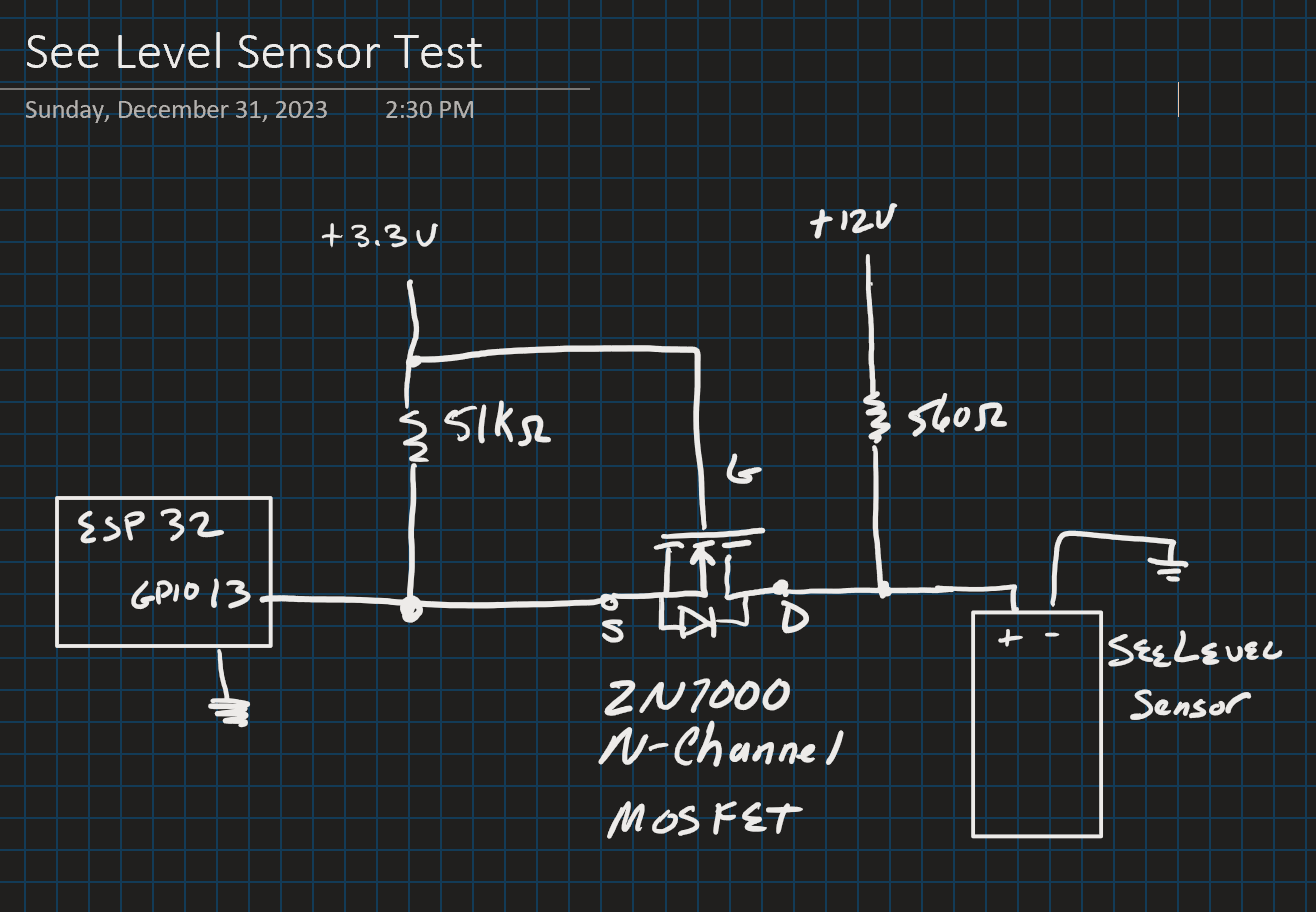
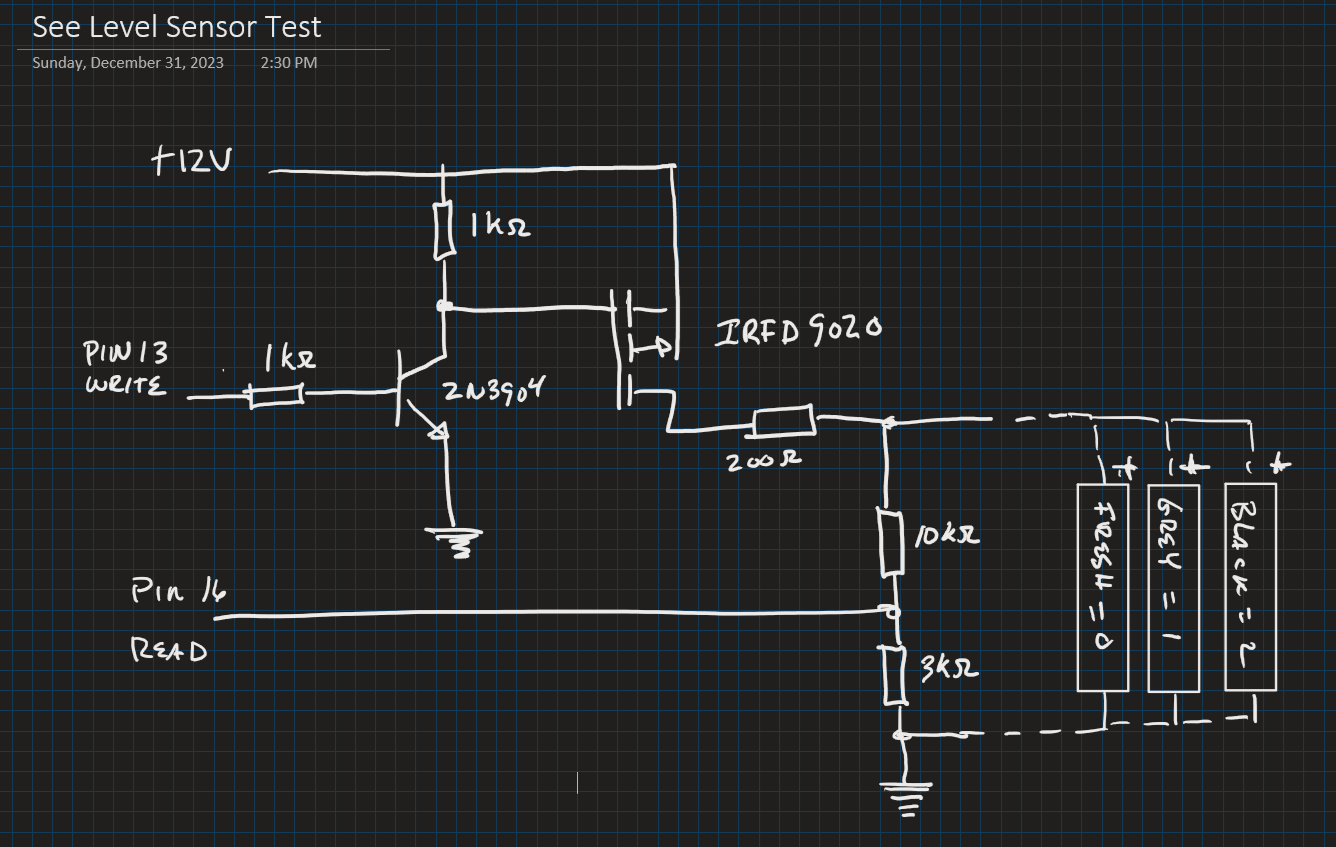
Refactor. Separate read pin from write pin.

Changed region(s): [[0.0, 0.0, 1.0, 1.0]]

diff --git a/src/main.cpp b/src/main.cpp
@@ -2,23 +2,23 @@
 
 Inspired by Jim G.: https://forums.raspberrypi.com/viewtopic.php?t=119614
 
-To read RV tanks equipped with the Garnet SeeLevel sensors, one can purchase 
+To read RV tanks equipped with the Garnet SeeLevel sensors, one can purchase
 a display monitor panel that has any of Bluetooth, RV-C, or NEMA2000 - all of
-which would be a better interface than this. This is an attempt to read the 
-sensors (senders) directly, without a Garnet display panel. 
+which would be a better interface than this. This is an attempt to read the
+sensors (senders) directly, without a Garnet display panel.
 
 Summary of information discovered by Jim G. and documented in the above post:
 
-  To trigger the tank sender/sensor, one needs to power the sender with 12V then 
-  pull the 12V line to ground in a particular pattern. The sender will respond 
-  by pulling the 12V line to ground with a series of pulses that can be 
+  To trigger the tank sender/sensor, one needs to power the sender with 12V then
+  pull the 12V line to ground in a particular pattern. The sender will respond
+  by pulling the 12V line to ground with a series of pulses that can be
   interpreted as bytes.
 
   Triggering the sender:
 
-  Each Garnet SeeLevel tank sender is configured as sensor 1, 2, or 3 by snipping 
+  Each Garnet SeeLevel tank sender is configured as sensor 1, 2, or 3 by snipping
   a tab on the sender. A sender will respond when it sees a sequence of pulses
-  to ground equal to its sensor number. Each pulse needs to be approx 85µs wide. 
+  to ground equal to its sensor number. Each pulse needs to be approx 85µs wide.
   Pulse spacing needs to be approximately 300µs.
 
   The sender will respond by pulling the 12V line to ground in a series of pulses.
@@ -34,7 +34,7 @@ Summary of information discovered by Jim G. and documented in the above post:
 
   For the segment fill values, a 'full' value will likely be less than 255, apparently
   depending on tank wall thickness, tank size, and perhaps how well the sender is
-  attached. In my testing, using a 710AR Rev E taped to a water jug, I see 'full' segments 
+  attached. In my testing, using a 710AR Rev E taped to a water jug, I see 'full' segments
   anywhere from 126 to 200. Pressing on a segment with my thumb will cause the sensor
   to read a higher value. Capacitance, perhaps?
 
@@ -44,21 +44,16 @@ Demo app - Output to Serial port:
 
 Interfacing 12V sensor with 3.3V ESP32:
 
-To interface, I built a level-shifter using this document as a guide:
+To interface, I wired a circuit using this document as a guide:
 
-  https://www.analog.com/en/design-notes/how-to-level-shift-1wire-systems.html
+  https://forums.raspberrypi.com/viewtopic.php?t=119614
 
-  The 'Basic Level Shifter' was built with the right-hand side powered by a 12V power
-  supply, with an ESP32 as the 3.3V side. Resisters were chosen by guessing. I ended 
-  up with a 51k pullup resister on the 3.3V side and a 560ohm resister on 
-  the 12V side. 
-
-  A cheap 12V-tolerant logic analyzer (LA1010) was used to assist 
-  in debugging.
+  Jim D.'s circuit appears to work fine. For an ESP32, the voltage divider
+  on the read pin should be modified to limit pin to no more than 3.3V
 
 Notes:
 
-  This app doesn't attempt to accommodate a trimmed sender or any sender other than the 
+  This app doesn't attempt to accommodate a trimmed sender or any sender other than the
   710AR Rev E.
 
   No attempt is made to process the returned data into an actual liquid level. I'm intending
@@ -67,15 +62,24 @@ Notes:
   I'm not confident in the validity of the checksum calculation.
 
   Uses Arduino framework but is only tested on an ESP32.
-  
-  When the ESP32 pin is pulled low, the ESP32 sinks current from both sides of the 
-  circuit, so care must be taken to prevent the ESP32 from going to smoke.
-  
+
 */
 
 #include <Arduino.h>
 
-int SeeLevelPIN = 13;  // ESP32 pin attached to level shifting circuit
+// ESP32 Write Pin. Set HIGH to power sensors
+const int SeeLevelWritePIN = 13;
+// ESP32 Read pin. Will be pulled low by sensors
+const int SeeLevelReadPIN = 16;
+
+// Time 12V bus is powered before sending pulse(s) to sensor(s)
+#define SEELEVEL_POWERON_DELAY 2450
+// Width of pulse sent to sensors
+#define SEELEVEL_PULSE_LOW_MICROSECONDS 85
+// Time between pulses snt to sensors
+#define SEELEVEL_PULSE_HIGH_MICROSECONDS 290
+// How long to wait for response before timing out
+#define SEELEVEL_PULSE_TIMEOUT 10000
 
 // Byte array to store data for 3 tanks x 12 bytes data per tank:
 byte SeeLevelData[3][12];
@@ -86,8 +90,9 @@ void readLevel(int);
 void setup() {
   Serial.begin(115200);
   Serial.println("\n\nTank Level is Woke!");
-  pinMode(SeeLevelPIN, OUTPUT);
-  digitalWrite(SeeLevelPIN, LOW);
+  pinMode(SeeLevelWritePIN, OUTPUT);
+  pinMode(SeeLevelReadPIN, INPUT);
+  digitalWrite(SeeLevelWritePIN, LOW);
   delay(5000);
 }
 
@@ -102,49 +107,58 @@ void loop() {
     }
 
     // Verify checksum
-    int byteSum = 0;                    
-    for (int i = 2; i <= 10; i++) {             // Sum data bytes 
+    int byteSum = 0;
+    for (int i = 2; i <= 10; i++) {  // Sum data bytes
       byteSum = byteSum + SeeLevelData[t][i];
     }
+    // Calculate and compare checksum
     int checkSum = SeeLevelData[t][1];
-    // Checksum appears to be (sum of bytes % 256) - 1, with special case for checksum 255. 
+    // Checksum appears to be (sum of bytes % 256) - 1, with special case for checksum 255.
     if (((byteSum % 256) - 1 == checkSum) || (byteSum % 256 == 0 && checkSum == 255)) {
-          Serial.print("Checksum: ");
-          Serial.print((byteSum % 256) - 1);
-          Serial.println(" OK");
+      Serial.print("Checksum: ");
+      Serial.print((byteSum % 256) - 1);
+      Serial.println(" OK");
     } else {
-      Serial.print(" byteSum % 256 - 1 = ");    
+      Serial.print(" byteSum % 256 - 1 = ");
       Serial.print(" Checksum: ");
       Serial.print((byteSum % 256) - 1);
       Serial.println(" Not OK");
     }
+    // Bus must be pulled low for some time before attempting to read another sensor
+    delay(1000);
   }
-  delay(5000);  // wait
+  delay(5000);  // wait between reads
 }
 
 //
 // Read an individual tank level
-// Pass parameter 't', where 
-//    t = 0 SeeLevel tank 1 (Normally Fresh Tank) 
+// Pass parameter 't', where
+//    t = 0 SeeLevel tank 1 (Normally Fresh Tank)
 //    t = 1 SeeLevel tank 2 (Normally Grey Tank)
 //    t = 2 SeeLevel tank 3 (Normally Black Tank)
 //
-void readLevel(int t) {               // Passed variable (t) is 0, 1 or 2
-  digitalWrite(SeeLevelPIN, HIGH);    // Power the sensor line for 2.4 ms so tank levels can be read
-  delayMicroseconds(2450);
-  for (int i = 0; i <= t; i++) {      // 1, 2 or 3 low pulses to select Fresh, Grey, Black tank
-    digitalWrite(SeeLevelPIN, LOW);
-    delayMicroseconds(85);            // Pulse 85µs down/290µs up
-    digitalWrite(SeeLevelPIN, HIGH);
-    delayMicroseconds(290);
+// Passed variable (t) is 0, 1 or 2
+//
+void readLevel(int t) {
+  
+  // Power the sensor line for 2.4 ms so tank levels can be read
+  digitalWrite(SeeLevelWritePIN, HIGH);
+  delayMicroseconds(SEELEVEL_POWERON_DELAY);
+
+  // 1, 2 or 3 low pulses to select Fresh, Grey, Black tank
+  for (int i = 0; i <= t; i++) {
+    digitalWrite(SeeLevelWritePIN, LOW);
+    delayMicroseconds(SEELEVEL_PULSE_LOW_MICROSECONDS);
+    digitalWrite(SeeLevelWritePIN, HIGH);
+    delayMicroseconds(SEELEVEL_PULSE_HIGH_MICROSECONDS);
   }
 
   // Read 12 bytes from sensor, store in array
   for (int byteLoop = 0; byteLoop < 12; byteLoop++) {
     SeeLevelData[t][byteLoop] = readByte();
   }
-  delay(10);                       
-  digitalWrite(SeeLevelPIN, LOW);      // Turn power off until next poll
+  delay(10);
+  digitalWrite(SeeLevelWritePIN, LOW);  // Turn power off until next poll
 }
 
 //
@@ -156,10 +170,10 @@ void readLevel(int t) {               // Passed variable (t) is 0, 1 or 2
 //
 // Each byte will roughly approximate the fill level of a segment of the sensor 0 <> 255
 //
-// A 'full' sensor segment will show somewhere between 126 and 255, depending on tank wall 
+// A 'full' sensor segment will show somewhere between 126 and 255, depending on tank wall
 // thickness, other factors.
 //
-// Testing can be done by temporarily attaching sensor to water jug or by simply touching 
+// Testing can be done by temporarily attaching sensor to water jug or by simply touching
 // sensor segments.
 //
 byte readByte() {
@@ -169,8 +183,8 @@ byte readByte() {
     result = result << 1;                           // Shift right for each incoming bit
 
     // Wait for low pulse, timeout if no pulse (I.E. no tank present)
-    unsigned long pulseTime = (pulseIn(SeeLevelPIN, LOW, 10000));
-      
+    unsigned long pulseTime = (pulseIn(SeeLevelReadPIN, LOW, SEELEVEL_PULSE_TIMEOUT));
+
     // Decide if pulse is logical '0', '1' or invalid
     if ((pulseTime >= 5) && (pulseTime <= 20)) {
       thisBit = 0;
@@ -180,7 +194,7 @@ byte readByte() {
       return 0;  // Pulse width out of range, Return zero
     }
     // Bitwise OR and shift pulses into single byte
-    result |= thisBit;  
+    result |= thisBit;
   }
   return result;
 }

diff --git a/docs/LevelShifter.md b/docs/LevelShifter.md
@@ -1,41 +1,9 @@
-## Basic 3.3V <-> 12V level shifter
+## 3.3V <-> 12V SeeLevel Interface
 
-To interface, I built a level-shifter using this document as a guide:
-
-  https://www.analog.com/en/design-notes/how-to-level-shift-1wire-systems.html
-
-The 'Basic Level Shifter' was built with the right-hand side powered by a 12V power supply, an ESP32 as the 3.3V side, and a 2N7000 N-channel MOSFET. Resisters were chosen by guessing. I ended up with a 51kohm pullup resister on the 3.3V side and a 560ohm resister on the 12V side, which limits current to approx 25mA. I am not an EE.
-
-![My Image](SeeLevelSensorCircuit.png)
-
-Operation is described in the document linked below.
-
-https://www.analog.com/en/design-notes/how-to-level-shift-1wire-systems.html
-
-### Description of the Level-Shifting Operation
-
-> To understand how the logic shifter works for any open-drain bus line, there are three main states to consider during a bi-directional transmission.
-
-#### State 1 – No device pulls down the line to a low level
-
-> With nothing pulling down on the bus line, the lower voltage side gets pulled up to 3.3V by its pullup resistor. In this event, the MOSFET's VGS is below the threshold voltage because the gate and the source are both at 3.3V, so the MOSFET does not conduct. This allows the bus line at the higher voltage side to get pulled up to 5V (12V) by its pullup resistor. As a result, both sides are high but at different voltage levels. 
-
-[Note: Should be no current on ESP32 Pin]
-
-#### State 2 – 3.3V system pulls down the open-drain bus to a low level
-
-> With the lower voltage side pulling down on the bus line, the MOSFET's source gets pulled down low and leaves the gate high. In this event, the MOSFET's VGS is above the threshold voltage and begins to conduct, also pulling the higher voltage side down. As a result, both sides are pulled low. 
-
-[Note: ESP32 pin will sink 14.5V/560ohms = 26mA from 12V side, plus 3.3v/51kohm from 3.3v side.]
-
-### State 3 – 5V (12V) system pulls down the open-drain bus to a low level
-
-> With the higher voltage side pulling down on the bus line, the MOSFET's drain sits low. In this event, the MOSFET's drain-substrate diode begins to conduct, indirectly pulling the source low. When this happens, the MOSFET begins to conduct like in State 2 and, as a result, pulls down both sides of the bus line low. 
-
-[Note: Current draw 14.5v/560ohm = 26mA. (plus 3.3v/51kohm)]
-
-### Sources:
+To interface, I built a level-shifter using this forum post as a guide:
 
 https://forums.raspberrypi.com/viewtopic.php?t=119614
 
-Note: Author Jim G. uses two pins (R & W), 5V arduino, P-channel MOSFET. 
+Based on available components, and to make sure that the read pin sees no more than 3.3v, resistor values for voltage divider on read pin were changed to 10k & 3k.
+
+![My Image](SeeLevelSensorCircuit.png)
